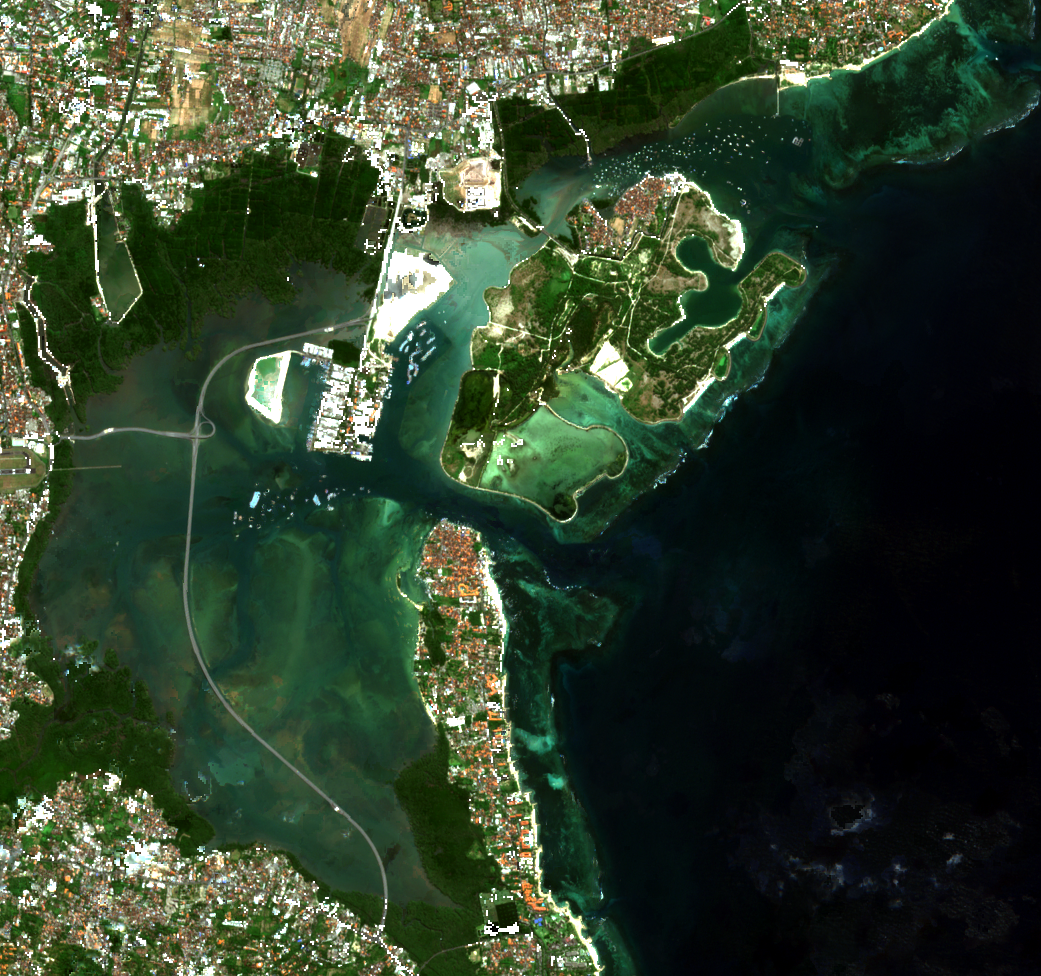
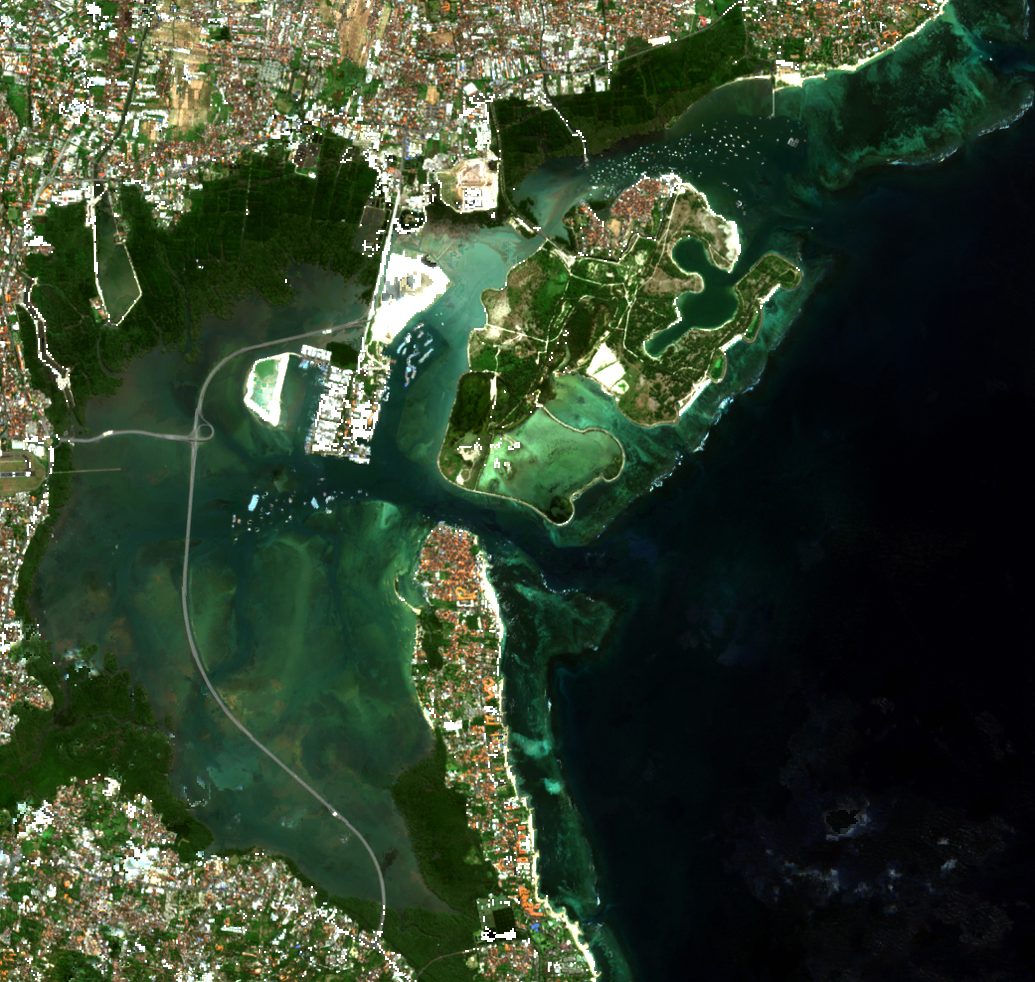
first commit

diff --git a/layers/layers.js b/layers/layers.js
@@ -1,5 +1,3 @@
-ol.proj.proj4.register(proj4);
-//ol.proj.get("EPSG:4326").setExtent([115.124660, -8.776354, 115.267117, -8.676905]);
 var wms_layers = [];
 
 
@@ -23,9 +21,9 @@ var lyr_CitraSatelit_1 = new ol.layer.Image({
         source: new ol.source.ImageStatic({
             url: "./layers/CitraSatelit_1.png",
             attributions: ' ',
-            projection: 'EPSG:4326',
+            projection: 'EPSG:3857',
             alwaysInRange: true,
-            imageExtent: [115.178392, -8.793249, 115.271907, -8.705573]
+            imageExtent: [12821600.000000, -982725.361436, 12832010.000000, -972850.446785]
         })
     });
 var lyr_Kedalaman_2 = new ol.layer.Image({
@@ -43,14 +41,14 @@ var lyr_Kedalaman_2 = new ol.layer.Image({
         source: new ol.source.ImageStatic({
             url: "./layers/Kedalaman_2.png",
             attributions: ' ',
-            projection: 'EPSG:4326',
+            projection: 'EPSG:3857',
             alwaysInRange: true,
-            imageExtent: [115.178392, -8.793249, 115.271907, -8.705573]
+            imageExtent: [12821600.000000, -982725.361436, 12832010.000000, -972850.446785]
         })
     });
 var format_Daratan_3 = new ol.format.GeoJSON();
 var features_Daratan_3 = format_Daratan_3.readFeatures(json_Daratan_3, 
-            {dataProjection: 'EPSG:4326', featureProjection: 'EPSG:4326'});
+            {dataProjection: 'EPSG:4326', featureProjection: 'EPSG:3857'});
 var jsonSource_Daratan_3 = new ol.source.Vector({
     attributions: ' ',
 });

diff --git a/resources/qgis2web.js b/resources/qgis2web.js
@@ -4,15 +4,12 @@ var map = new ol.Map({
     renderer: 'canvas',
     layers: layersList,
     view: new ol.View({
-         maxZoom: 28, minZoom: 1, projection: new ol.proj.Projection({
-            code: 'EPSG:4326',
-            //extent: [-20037508.342789, -20037508.342789, 20037508.342789, 20037508.342789],
-            units: 'degrees'})
+         maxZoom: 28, minZoom: 1
     })
 });
 
 //initial view - epsg:3857 coordinates if not "Match project CRS"
-map.getView().fit([115.124660, -8.776354, 115.267117, -8.676905], map.getSize());
+map.getView().fit([12819403.860846, -982997.021874, 12834083.806276, -972628.355260], map.getSize());
 
 ////small screen definition
     var hasTouchScreen = map.getViewport().classList.contains('ol-touch');
